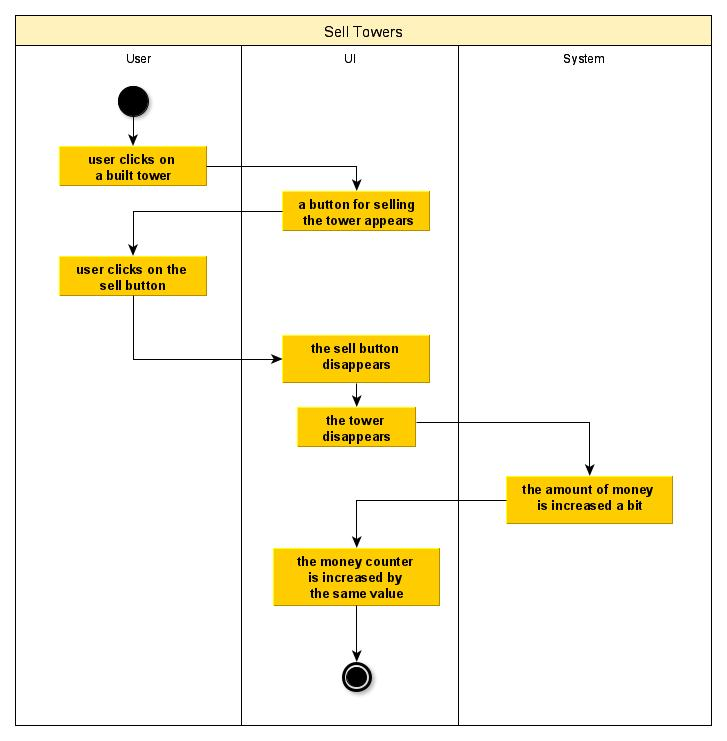
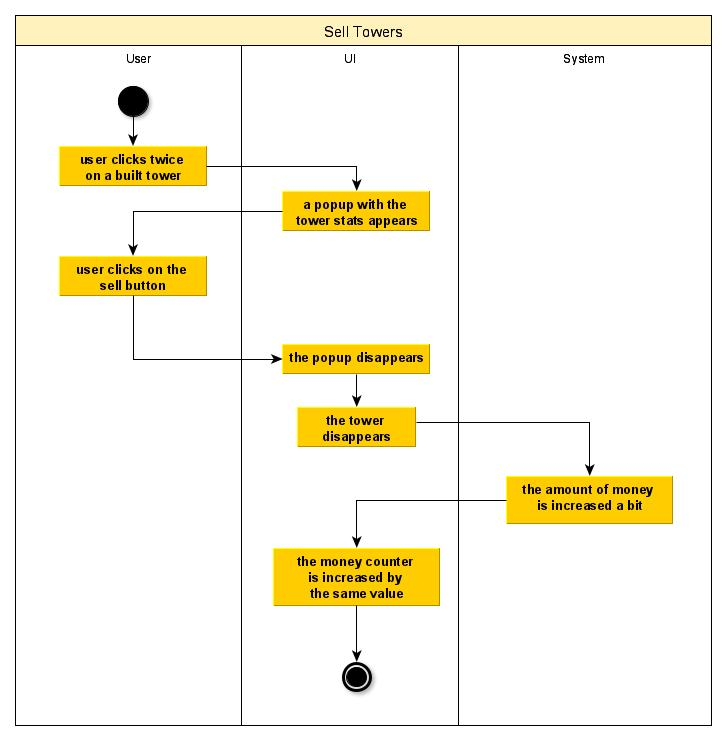
[DHTD-56]: Create UCS for UC "Sell Towers"

Changed region(s): [[0.3631, 0.4345, 0.6052, 0.5277], [0.3934, 0.2483, 0.575, 0.3104], [0.0908, 0.1862, 0.2724, 0.2483]]

diff --git a/documents/UCS/UCS-Sell_Towers/UCS-Sell_Towers.md b/documents/UCS/UCS-Sell_Towers/UCS-Sell_Towers.md
@@ -8,10 +8,10 @@ Every built tower can be sold. When selling a tower, the following steps happen:
 
 # 2 Flow of Events
 ## 2.1 Basic Flow
-- User clicks on a built tower
-- a button for selling this tower appears
-- User clicks on this button
-- the button disappears
+- User clicks twice on a built tower
+- a popup with the tower stats, the upgraded tower stats and the option to sell the tower opens
+- User clicks on the sell button
+- the popup disappears
 - the tower disappears
 - the own ingame money increases a bit
 
@@ -33,6 +33,10 @@ Every built tower can be sold. When selling a tower, the following steps happen:
 # 4 Preconditions
 ## 4.1 A tower has to be built
 Before it is possible to sell a tower it is necessary to build at least one tower
+
+## 4.2 A tower must be selected
+To open the necessary popup for upgrading a tower, this have to be selected by clicking on it.
+Click once more on the selected tower to open the tower information popup.
 
 # 5 Postconditions
 (n/a)
